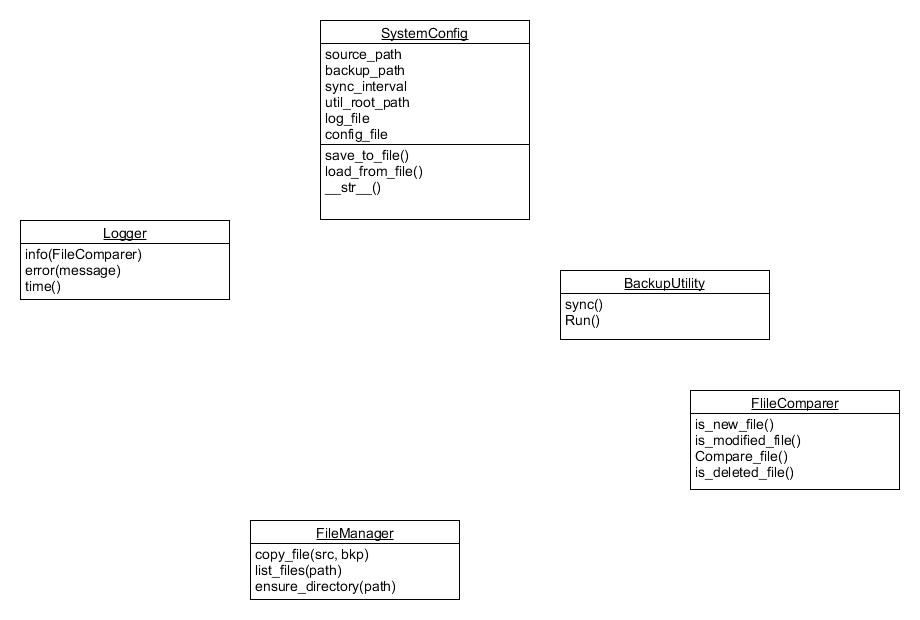
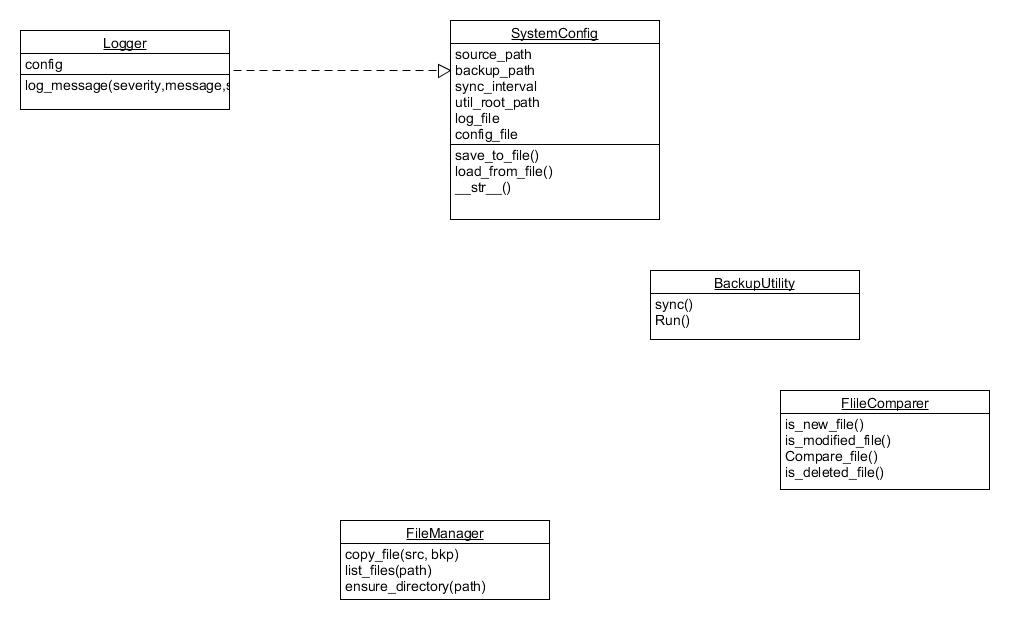
added logger.py and updated docs.

diff --git a/src/logger.py b/src/logger.py
@@ -1,0 +1,41 @@
+from datetime import datetime
+import os
+import textwrap
+
+class Logger():
+
+
+    _instance = None
+
+    def __new__(cls,config):
+
+        if not config:
+            raise ValueError("config is required")
+
+        if cls._instance is None:
+            cls._instance = super(Logger, cls).__new__(cls)
+            cls._instance.config = config
+            os.makedirs(os.path.dirname(config.log_file_path), exist_ok=True)
+            header = f"|{'TIMESTAMP':<19}|{'SEVERITY':<8}|{'SENDER':<15}|{'MESSAGE':<50}|\n"
+            with open(config.log_file_path, "w", encoding="utf-8") as f:
+                f.write(header)
+
+
+        return cls._instance
+
+
+    def log_message(self, severity, message, sender):
+        timestamp = datetime.now().strftime("%Y-%m-%d %H:%M:%S")
+
+        ts = f"{timestamp:<19}"
+        sev = f"{severity:<8}"
+        snd = f"{sender:<15}"
+
+        MAX_WIDTH = 50
+        wrapped_lines = textwrap.wrap(message, width=MAX_WIDTH)
+
+        with open(self.config.log_file_path, "a", encoding="utf-8") as f:
+            if wrapped_lines:
+                f.write(f"|{ts}|{sev}|{snd}|{wrapped_lines[0]:<{MAX_WIDTH}}|\n")
+                for line in wrapped_lines[1:]:
+                    f.write(f"|{'':19}|{'':8}|{'':15}|{line:<{MAX_WIDTH}}|\n")

diff --git a/main.py b/main.py
@@ -1,4 +1,5 @@
 from src.system_config import SystemConfig
+from src.logger import Logger
 
 
 
@@ -14,13 +15,15 @@ def main():
     # 1. Create / load configuration
     config = SystemConfig(
         util_root_path= "log",
-        source_path='RoveemaAena',
+        source_path='source',
         backup_path='backup',
-        log_file_name='logoon.txt',
+        log_file_name='log.txt',
         sync_interval=30
     )
 
-    print(config)
+
+    logger = Logger(config)
+    logger.log_message('INFO','ComParing files','file comparer')
 
 
 